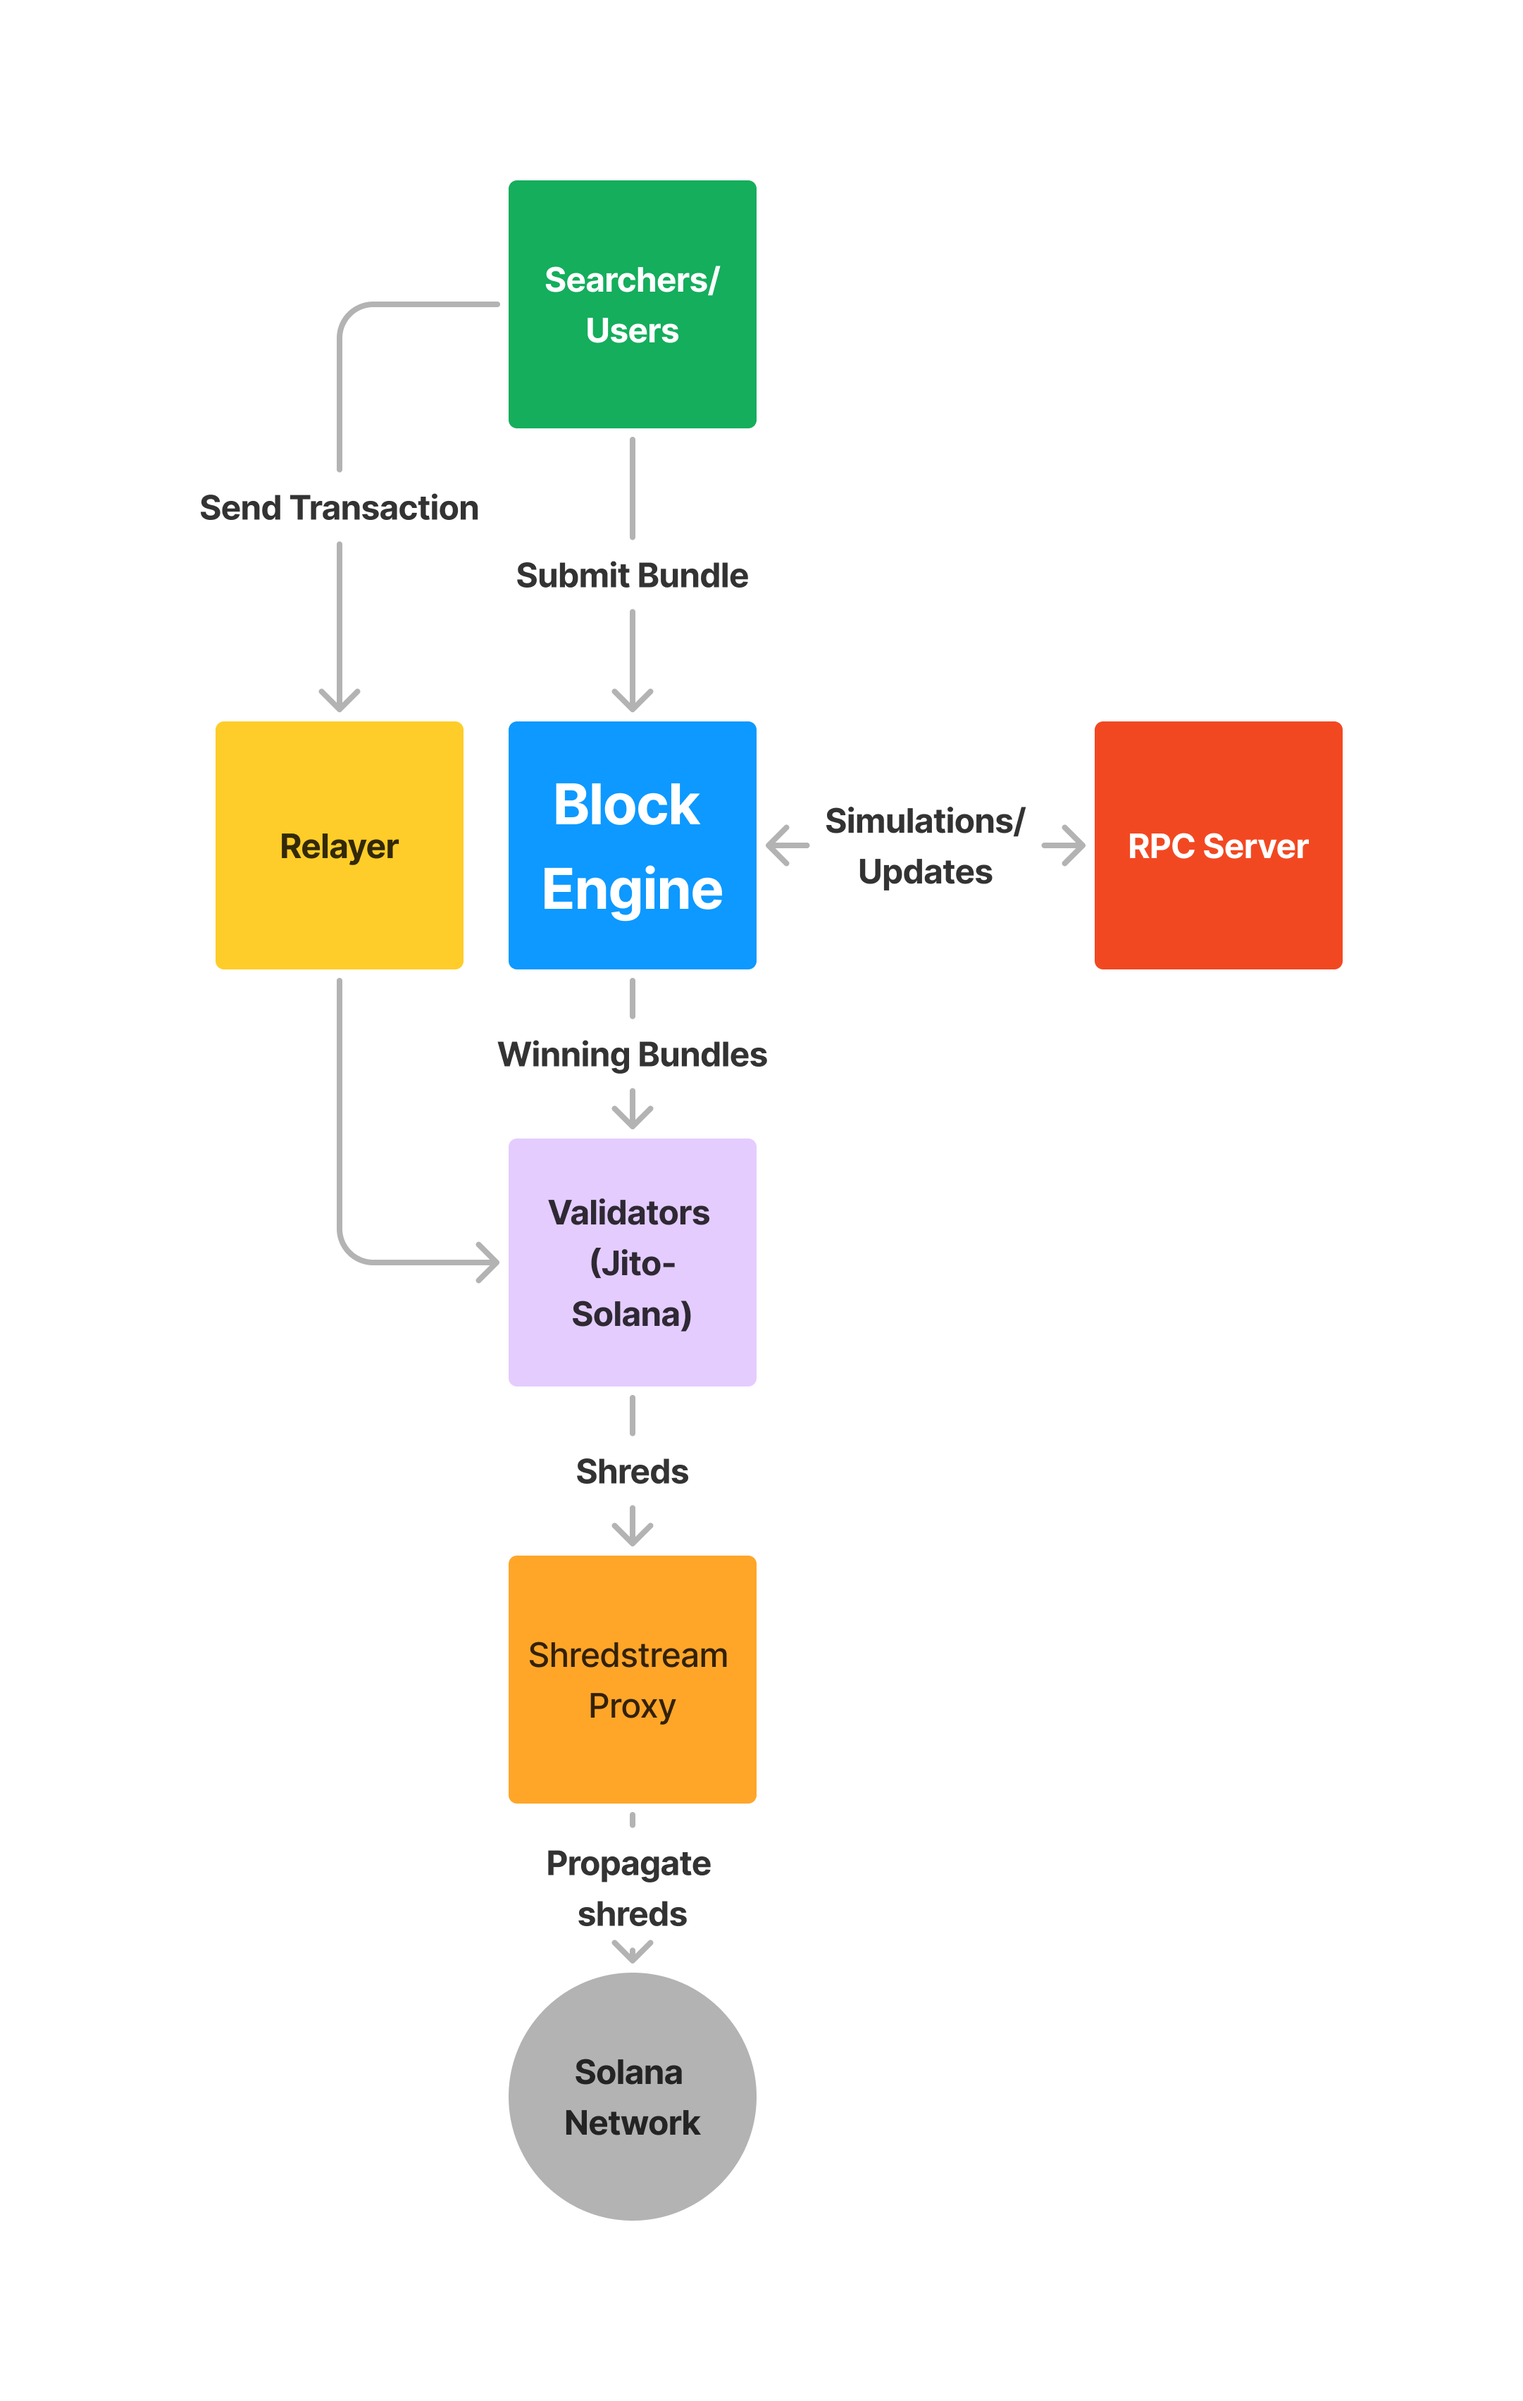
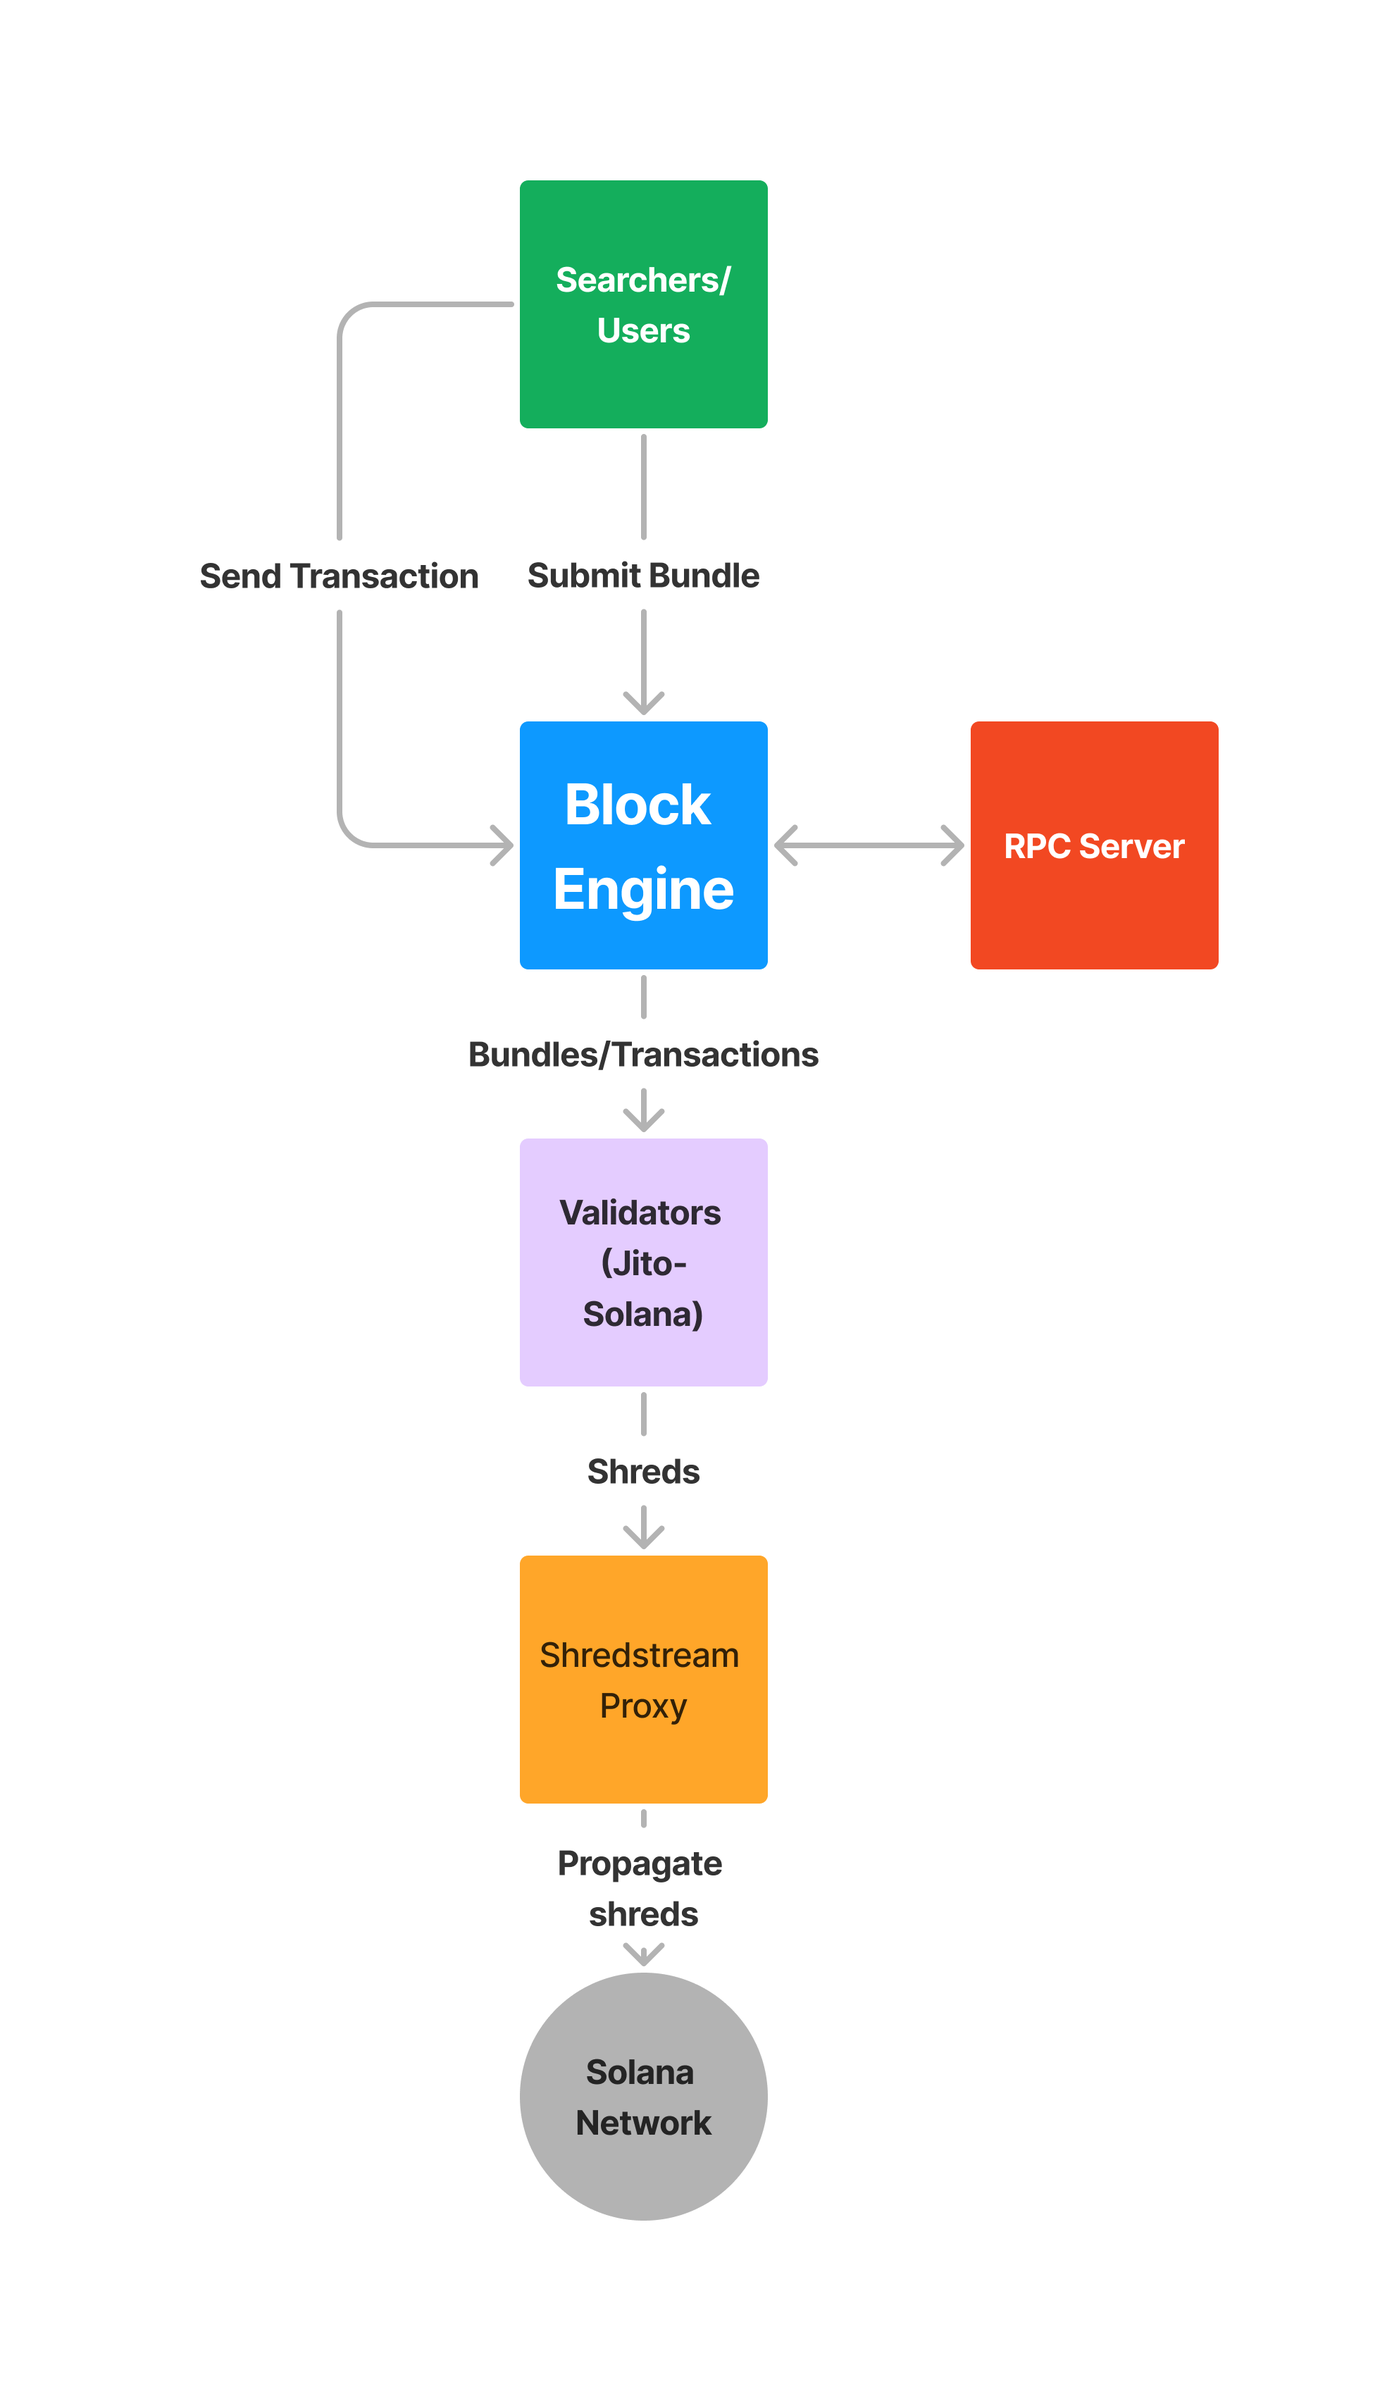
Patch missing info (#29)
* Add missing relayer, ntp, ip

* Update diagram

diff --git a/docs/source/lowlatencytxnsend.md b/docs/source/lowlatencytxnsend.md
@@ -44,14 +44,18 @@ Jito provides Solana MEV users with superior transaction execution through fast 
 ## API
 You can send JSON-RPC requests to any Block Engine using the following URLs. To route to a specific region, specify the desired region:
 
-| Location        | URL                                                     |
-|-----------------|---------------------------------------------------------|
-| 🌍 🌎 🌏 **Mainnet**         | `https://mainnet.block-engine.jito.wtf`             |
-| 🇳🇱 **Amsterdam**         | `https://amsterdam.mainnet.block-engine.jito.wtf`     |
-| 🇩🇪 **Frankfurt**         | `https://frankfurt.mainnet.block-engine.jito.wtf`     |
-| 🇺🇸 **New York**          | `https://ny.mainnet.block-engine.jito.wtf`            |
-| 🇯🇵 **Tokyo**             | `https://tokyo.mainnet.block-engine.jito.wtf`         |
-| 🇺🇸 **Salt Lake City**    | `https://slc.mainnet.block-engine.jito.wtf`           |
+| Location | Block Engine URL | Shred Receiver | Relayer URL | NTP Server |
+|----------|-----------------|----------------|-------------|------------|
+| 🌍 🌎 🌏 **Mainnet** | `https://mainnet.block-engine.jito.wtf` | - | - | - |
+| 🇳🇱 **Amsterdam** | `https://amsterdam.mainnet.block-engine.jito.wtf` | `74.118.140.240:1002` | `http://amsterdam.mainnet.relayer.jito.wtf:8100` | `ntp.amsterdam.jito.wtf` |
+| 🇩🇪 **Frankfurt** | `https://frankfurt.mainnet.block-engine.jito.wtf` | `145.40.93.84:1002` | `http://frankfurt.mainnet.relayer.jito.wtf:8100` | `ntp.frankfurt.jito.wtf` |
+| 🇺🇸 **New York** | `https://ny.mainnet.block-engine.jito.wtf` | `141.98.216.96:1002` | `http://ny.mainnet.relayer.jito.wtf:8100` | `ntp.ny.jito.wtf` |
+| 🇯🇵 **Tokyo** | `https://tokyo.mainnet.block-engine.jito.wtf` | `202.8.9.160:1002` | `http://tokyo.mainnet.relayer.jito.wtf:8100` | `ntp.tokyo.jito.wtf` |
+| 🇺🇸 **Salt Lake City** | `https://slc.mainnet.block-engine.jito.wtf` | `64.130.53.8:1002` | `http://slc.mainnet.relayer.jito.wtf:8100` | `ntp.slc.jito.wtf` |
+| | | | | |
+| 🌍 🌎 🌏 **Testnet** | `https://testnet.block-engine.jito.wtf` | - | - | - |
+| 🇺🇸 **Dallas** | `https://dallas.testnet.block-engine.jito.wtf` | `141.98.218.45:1002` | `http://dallas.testnet.relayer.jito.wtf:8100` | `ntp.dallas.jito.wtf` |
+| 🇺🇸 **New York** | `https://ny.testnet.block-engine.jito.wtf` | `141.98.216.132:1002` | `http://ny.testnet.relayer.jito.wtf:8100` | `ntp.dallas.jito.wtf` |
 
 
 ### 📨 Transactions(`/api/v1/transactions`)
